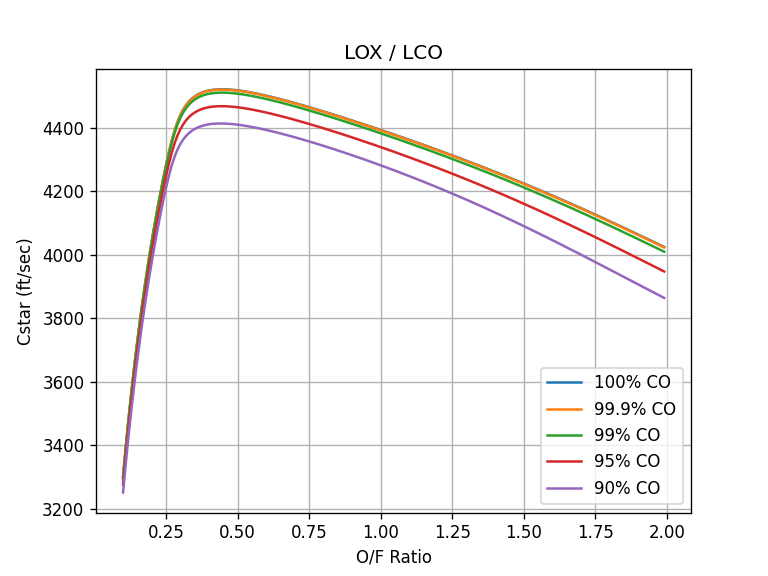
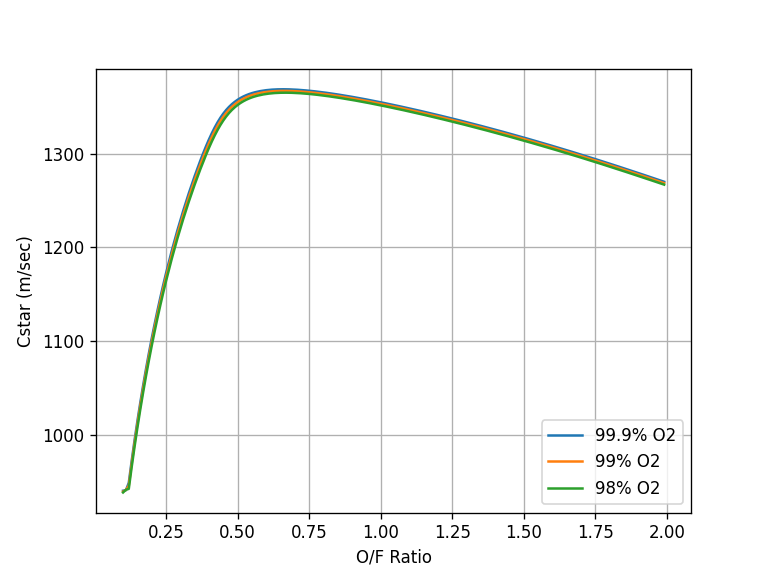
Oxygen purity

diff --git a/impurities_oxygen.py b/impurities_oxygen.py
@@ -1,0 +1,91 @@
+from rocketcea.cea_obj import CEA_Obj, add_new_fuel, add_new_oxidizer, add_new_propellant
+import CoolProp.CoolProp as CP
+from pylab import *
+matplotlib.use('TkAgg')
+
+# Add LCO as a prop
+card_str = """
+fuel CO(L)  C 1.0   O 1.0     wt%=100.00
+h,j/mol=-110530
+"""
+add_new_fuel( 'LCO', card_str )
+
+card_str = """
+oxid O2(L)   N 2 O 4   wt%=99.9
+h,j/mol=0    
+oxid CO2    C 1.0 O 2.0      wt%=0.1
+h,j/mol=-393520     
+"""
+add_new_oxidizer( 'LOX_1pCO2', card_str )
+
+card_str = """
+oxid O2(L)   N 2 O 4   wt%=99
+h,j/mol=0    
+oxid CO2    C 1.0 O 2.0      wt%=1
+h,j/mol=-393520     
+"""
+add_new_oxidizer( 'LOX_10pCO2', card_str )
+
+card_str = """
+oxid O2(L)   N 2 O 4   wt%=98
+h,j/mol=0    
+oxid CO2    C 1.0 O 2.0      wt%=2
+h,j/mol=-393520     
+"""
+add_new_oxidizer( 'LOX_20pCO2', card_str )
+
+pcL = [ 435.11321319] # 30 bar
+ispObj0 = CEA_Obj(oxName='LOX', fuelName="LCO")
+ispObj1 = CEA_Obj(oxName='LOX_1pCO2', fuelName="LCO")
+ispObj10 = CEA_Obj(oxName='LOX_10pCO2', fuelName="LCO")
+ispObj20 = CEA_Obj(oxName='LOX_20pCO2', fuelName="LCO")
+
+
+# for Pc in pcL:
+#     cstarArr100 = []
+#     MR = 0.1
+#     mrArr = []
+#     while MR < 2.0:
+#         cstarArr100.append( ispObj0.get_Cstar( Pc=Pc, MR=MR ) * 0.3048)
+#         mrArr.append(MR)
+#         MR += 0.01
+#     plot(mrArr, cstarArr100, label='100% O2')
+
+for Pc in pcL:
+    cstarArr100 = []
+    MR = 0.1
+    mrArr = []
+    while MR < 2.0:
+        cstarArr100.append( ispObj1.get_Cstar( Pc=Pc, MR=MR ) * 0.3048)
+        mrArr.append(MR)
+        MR += 0.01
+    plot(mrArr, cstarArr100, label='99.9% O2')
+
+for Pc in pcL:
+    cstarArr100 = []
+    MR = 0.1
+    mrArr = []
+    while MR < 2.0:
+        cstarArr100.append( ispObj10.get_Cstar( Pc=Pc, MR=MR ) * 0.3048)
+        mrArr.append(MR)
+        MR += 0.01
+    plot(mrArr, cstarArr100, label='99% O2')
+
+for Pc in pcL:
+    cstarArr100 = []
+    MR = 0.1
+    mrArr = []
+    while MR < 2.0:
+        cstarArr100.append( ispObj20.get_Cstar( Pc=Pc, MR=MR ) * 0.3048)
+        mrArr.append(MR)
+        MR += 0.01
+    plot(mrArr, cstarArr100, label='98% O2')
+
+legend(loc='best')
+grid(True)
+#title( ispObj0.desc )
+xlabel( 'O/F Ratio' )
+ylabel( 'Cstar (m/sec)' )
+savefig('cea_cstar_plot.png', dpi=120)
+
+show()
